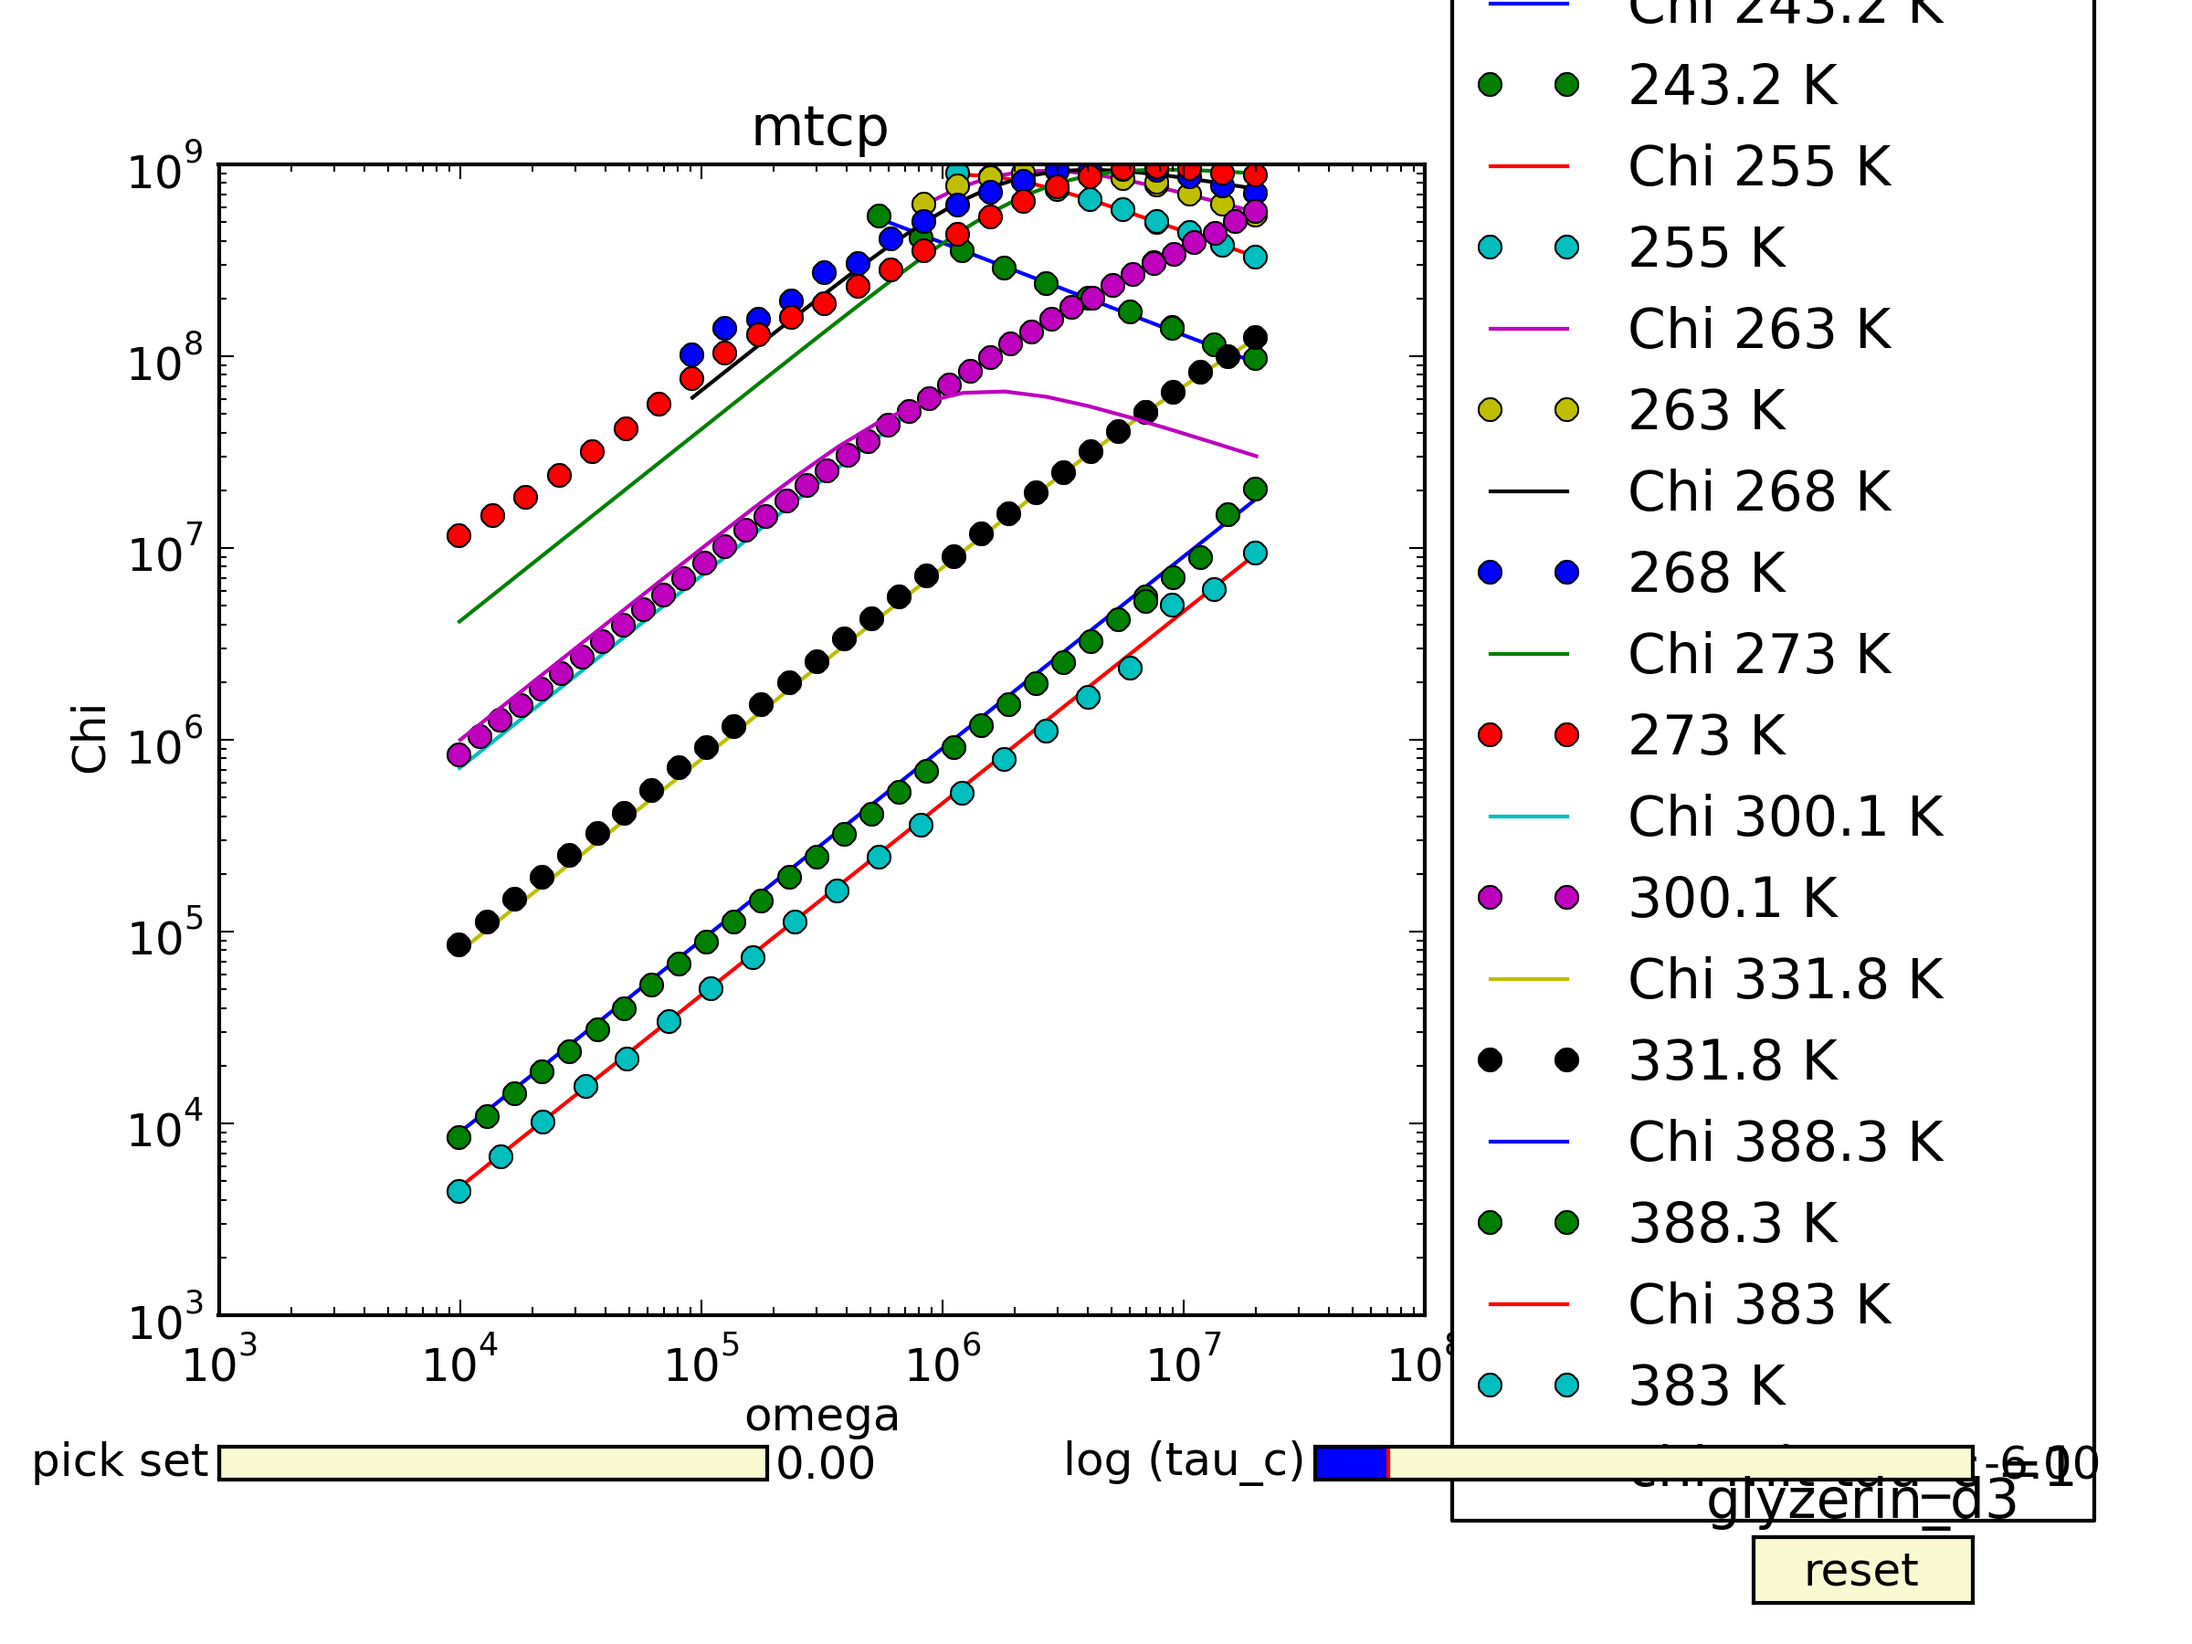
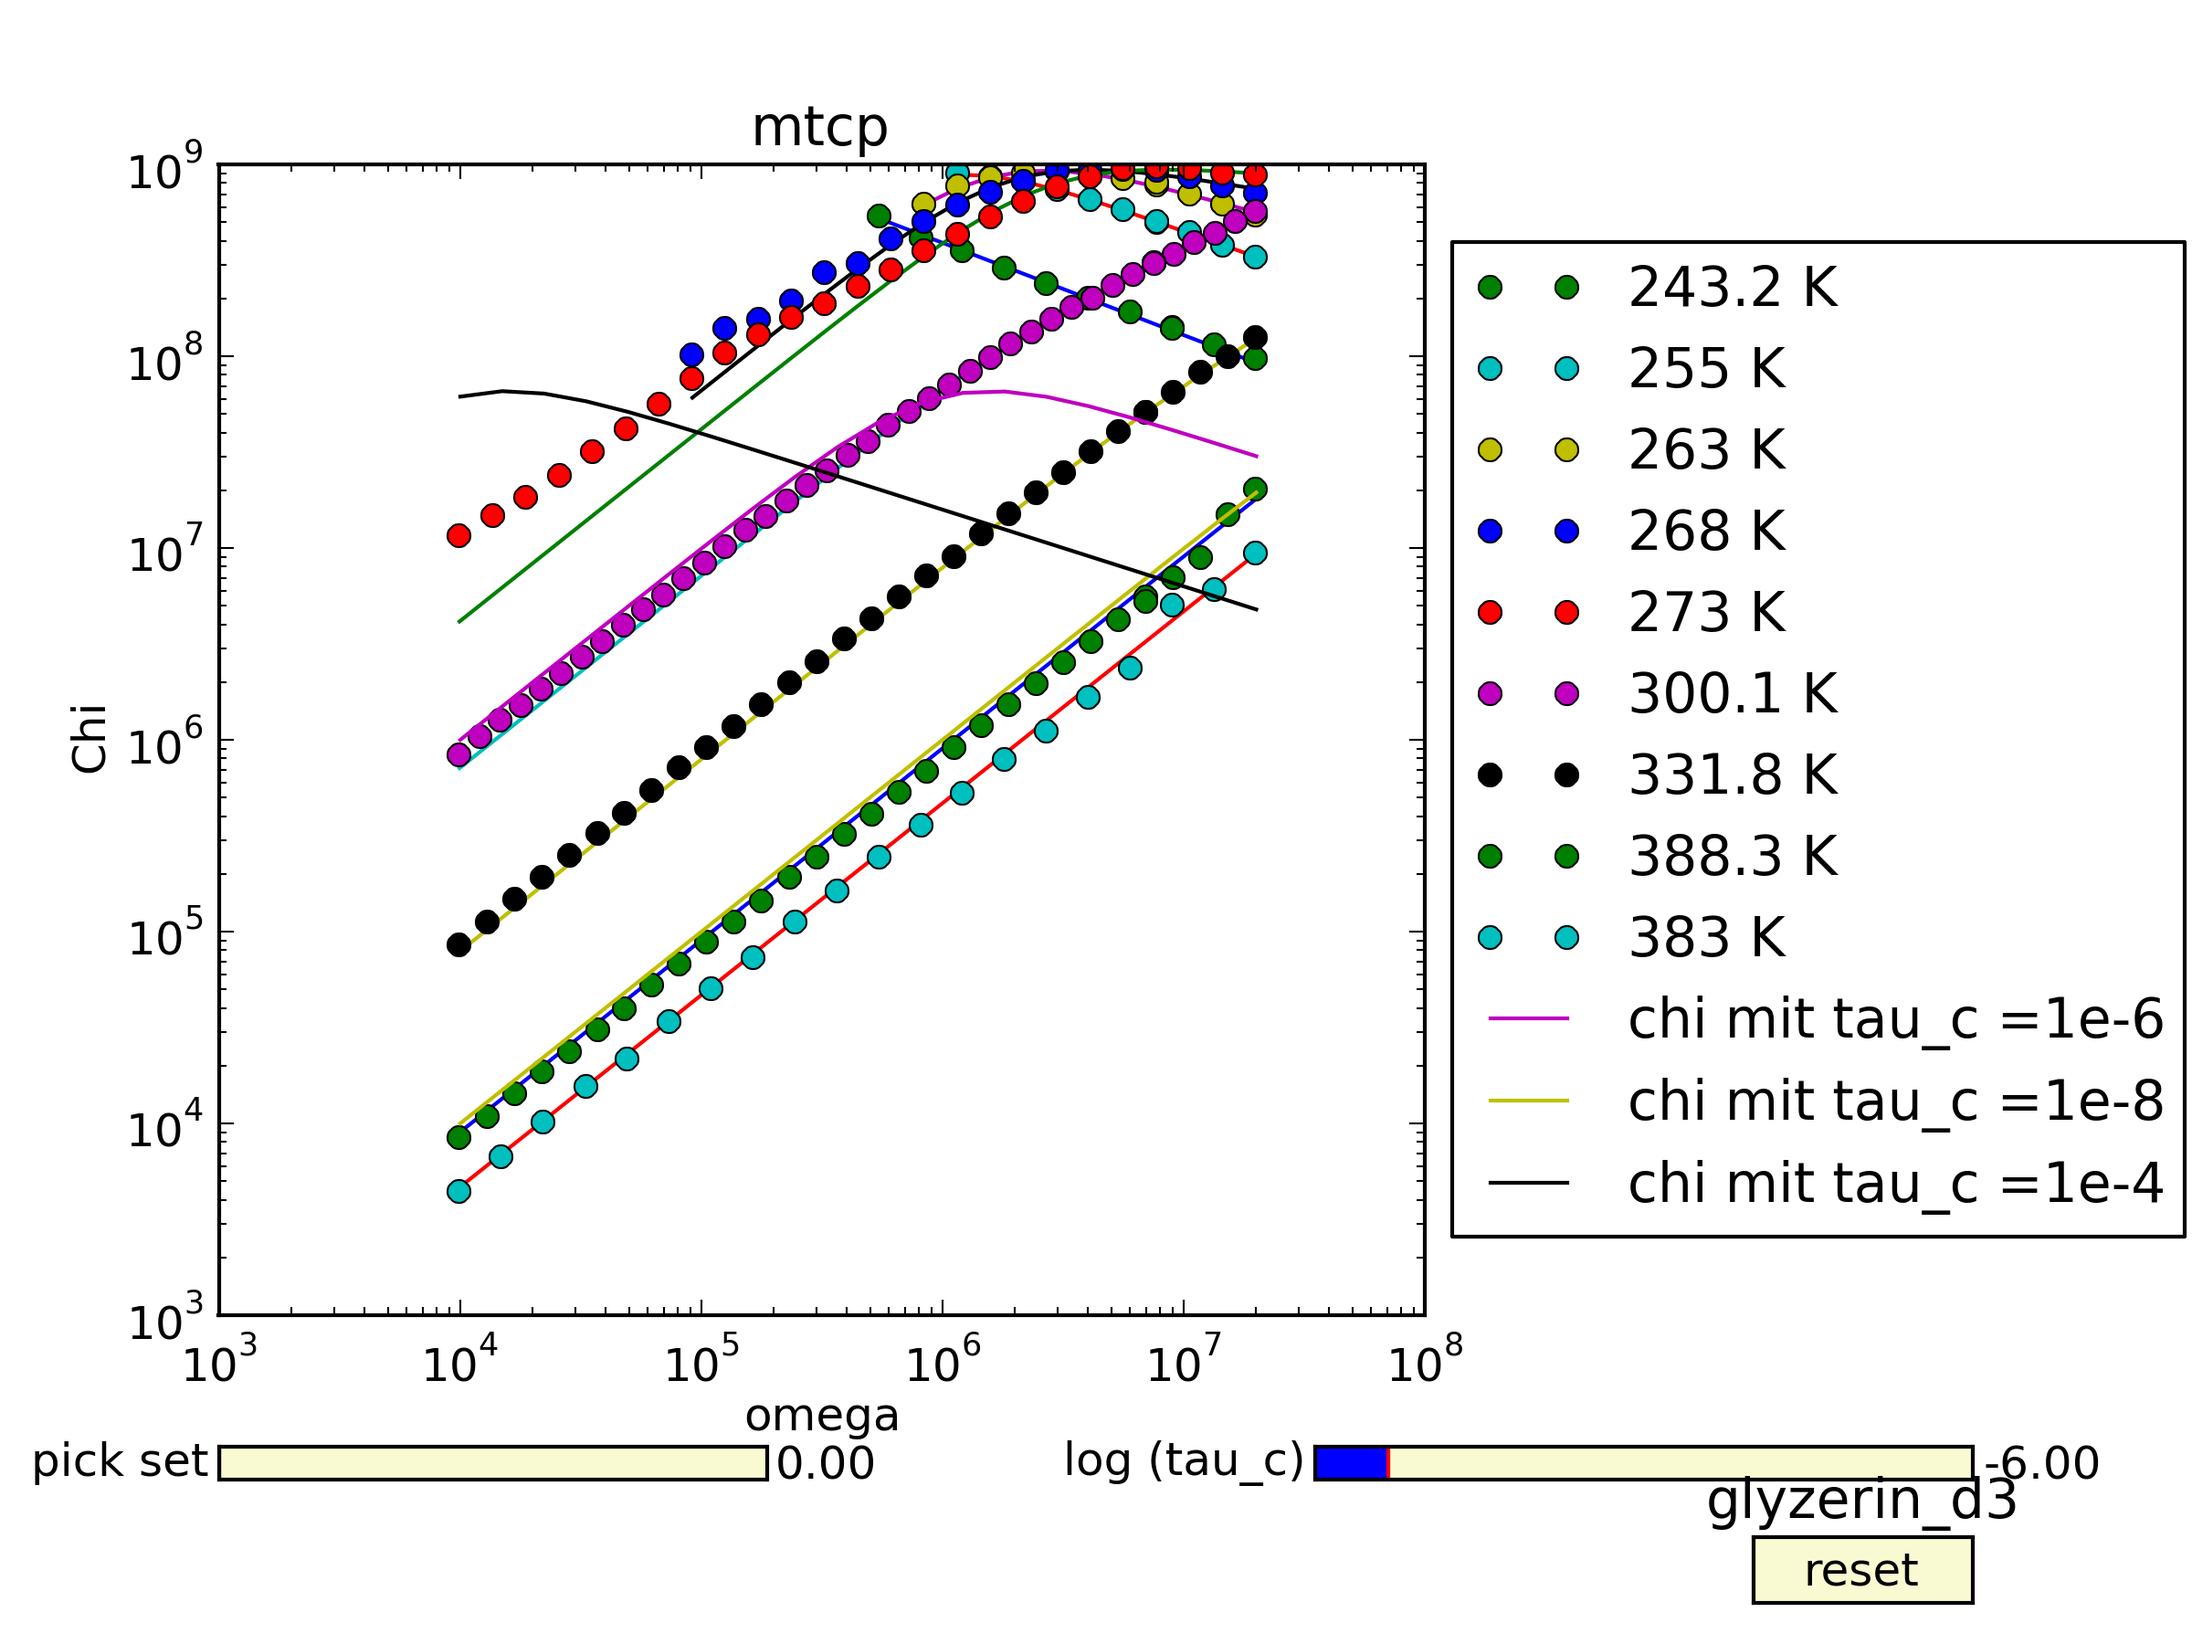
kleines update

diff --git a/interaktiv-susz.py b/interaktiv-susz.py
@@ -38,13 +38,12 @@ def J(omega,tau_c,beta):
 def Chi(omega,tau_c,beta,K_DD):
 	return K_DD*omega*J(omega,tau_c,beta)
 ##die auswertefunktion fuer die Diffusion und die rate. mal sehen...
-def Diffusion(x):
-	return x
 def R_1(omega,R1_0,D):
 	mu_0 =1.2566e-6
 	h_quer = 6.626e-34/2/np.pi
+	gamma_H=2.675e8
 	N=N_mTCP=21*6.022e-23*1.15*100**3/368.4
-	B=np.pi/30*(1+4*(2**0.5))*(mu_0/4/np.pi * h_quer * gamma_H **2)**2 * N
+	B=np.pi/30.*(1.+4.*(2.**0.5))*(mu_0/4./np.pi * h_quer * gamma_H **2)**2 * N
 	return R1_0-B/(D**1.5) *omega**0.5
 ##die verschiebefunktion fuer die suszibilitaet
 def update(val):
@@ -67,7 +66,6 @@ def update(val):
 		zone=map(int,zone)
 		rf.append(liste[6])
 	slide=10.0**val
-	print slide
 	for i,b in enumerate(br): 
 		br[i]=br[i]*1e6
 		ch.append(ra1[i]*br[i])
@@ -77,11 +75,9 @@ def update(val):
 	plt.draw()
 	verschiebefaktoren[int(picker.val)]=slide
 	verschiebetemperaturen[int(picker.val)]=temps[int(picker.val)]
-	print verschiebefaktoren
-	print verschiebetemperaturen
 	plt.figure(4)
 	plt.cla()
-	plt.plot(verschiebefaktoren,verschiebetemperaturen)
+	plt.plot(verschiebetemperaturen,verschiebefaktoren)
 	plt.draw()
 	return slide
 #	fin=open(sef[int(picker.val)],'r')
@@ -131,6 +127,8 @@ plt.figure(2)
 wurzelax=plt.axes([0.1,0.1,0.8,0.8])
 axr0=plt.axes([0.05,0.02,0.6,0.02],axisbg=axcolor)
 sr0=Slider(axr0,'r0',0.3,10,valinit=1.0)
+axD=plt.axes([0.7,0.02,0.2,0.02],axisbg=axcolor)
+sd0=Slider(axD,'D',-12,-9,valinit=-11)
 
 plt.figure(3)
 ##wird spaeter bemalt
@@ -141,6 +139,7 @@ plt.title('verschiebefaktoren in der suszeptiblitaet')
 plt.xlabel('T')
 plt.ylabel('schiebefaktoren a.u.')
 
+##interaktion mit der gui
 picker.on_changed(pick)
 button.on_clicked(reset)
 stau_c.on_changed(update)
@@ -182,8 +181,6 @@ for filename in sef:
 	temp=temp.rstrip()
 	temps.append(float(temp))
 	#print repr(temp)
-	print fin2
-	print zone
 
 	for i,b in enumerate(brlx):
 		brlx[i]=brlx[i]*1e6
@@ -195,9 +192,14 @@ for filename in sef:
 	brlx=np.array(brlx)
 	chi=np.array(chi)
 	fitpars, covmat = curve_fit(Chi,brlx,chi,p0=[1e-6,0.7,1e10],maxfev=10000)
-	print fitpars
-	plt.plot(brlx,map(lambda x:Chi(x,fitpars[0],fitpars[1],fitpars[2]),brlx),label='Chi '+temp+' K')
-	plt.plot(brlx,chi,label=temp+' K',marker='o',linestyle='None')
+	print 'fitparamer temperatur (tau,beta,kopplungskonstante)'+temp+str(fitpars)
+	plt.plot(brlx,
+			map(lambda x:Chi(x,fitpars[0],fitpars[1],fitpars[2]),brlx),
+			#label='Chi '+temp+' K'
+			)
+	plt.plot(brlx,chi,
+			label=temp+' K',
+			marker='o',linestyle='None')
 	plt.figure(2)
 	plt.title('Wurzel')
 	wurzelax=plt.axes([0.1,0.1,0.8,0.8])
@@ -211,17 +213,22 @@ for filename in sef:
 	for i,b in enumerate(brlx):
 		brlx[i]=brlx[i]**2 #wir hatten die wurzel gezogen
 	plt.plot(brlx,r1,label=relativefile[0])
-print temps	
-plt.figure(2)
+
+plt.figure(4)
+print (map(lambda x: x**0.5,omega),map(lambda y:R_1(y**0.5,2,1e-10),omega))
 
 plt.figure(1)
-plt.plot(omega, Chi(omega,1e-6,0.7,1e8),label='chi mit tau_c =1')
+plt.plot(omega, Chi(omega,1e-6,0.7,1e8),label='chi mit tau_c =1e-6')
+plt.plot(omega, Chi(omega,1e-8,0.7,1e8),label='chi mit tau_c =1e-8')
+plt.plot(omega, Chi(omega,1e-4,0.7,1e8),label='chi mit tau_c =1e-4')
 plt.legend(loc='center left',bbox_to_anchor=(1,0.5))
 plt.savefig('suscibility',dpi=300,orientation='landscape')
 plt.figure(2)
 plt.savefig('wurzel',dpi=300,orientation='landscape')
 plt.figure(3)
 plt.savefig('rate',dpi=300,orientation='landscape')
+plt.figure(4)
+plt.savefig('verschiebeparameter',dpi=300,orientation='landscape')
 plt.show()
 
 
